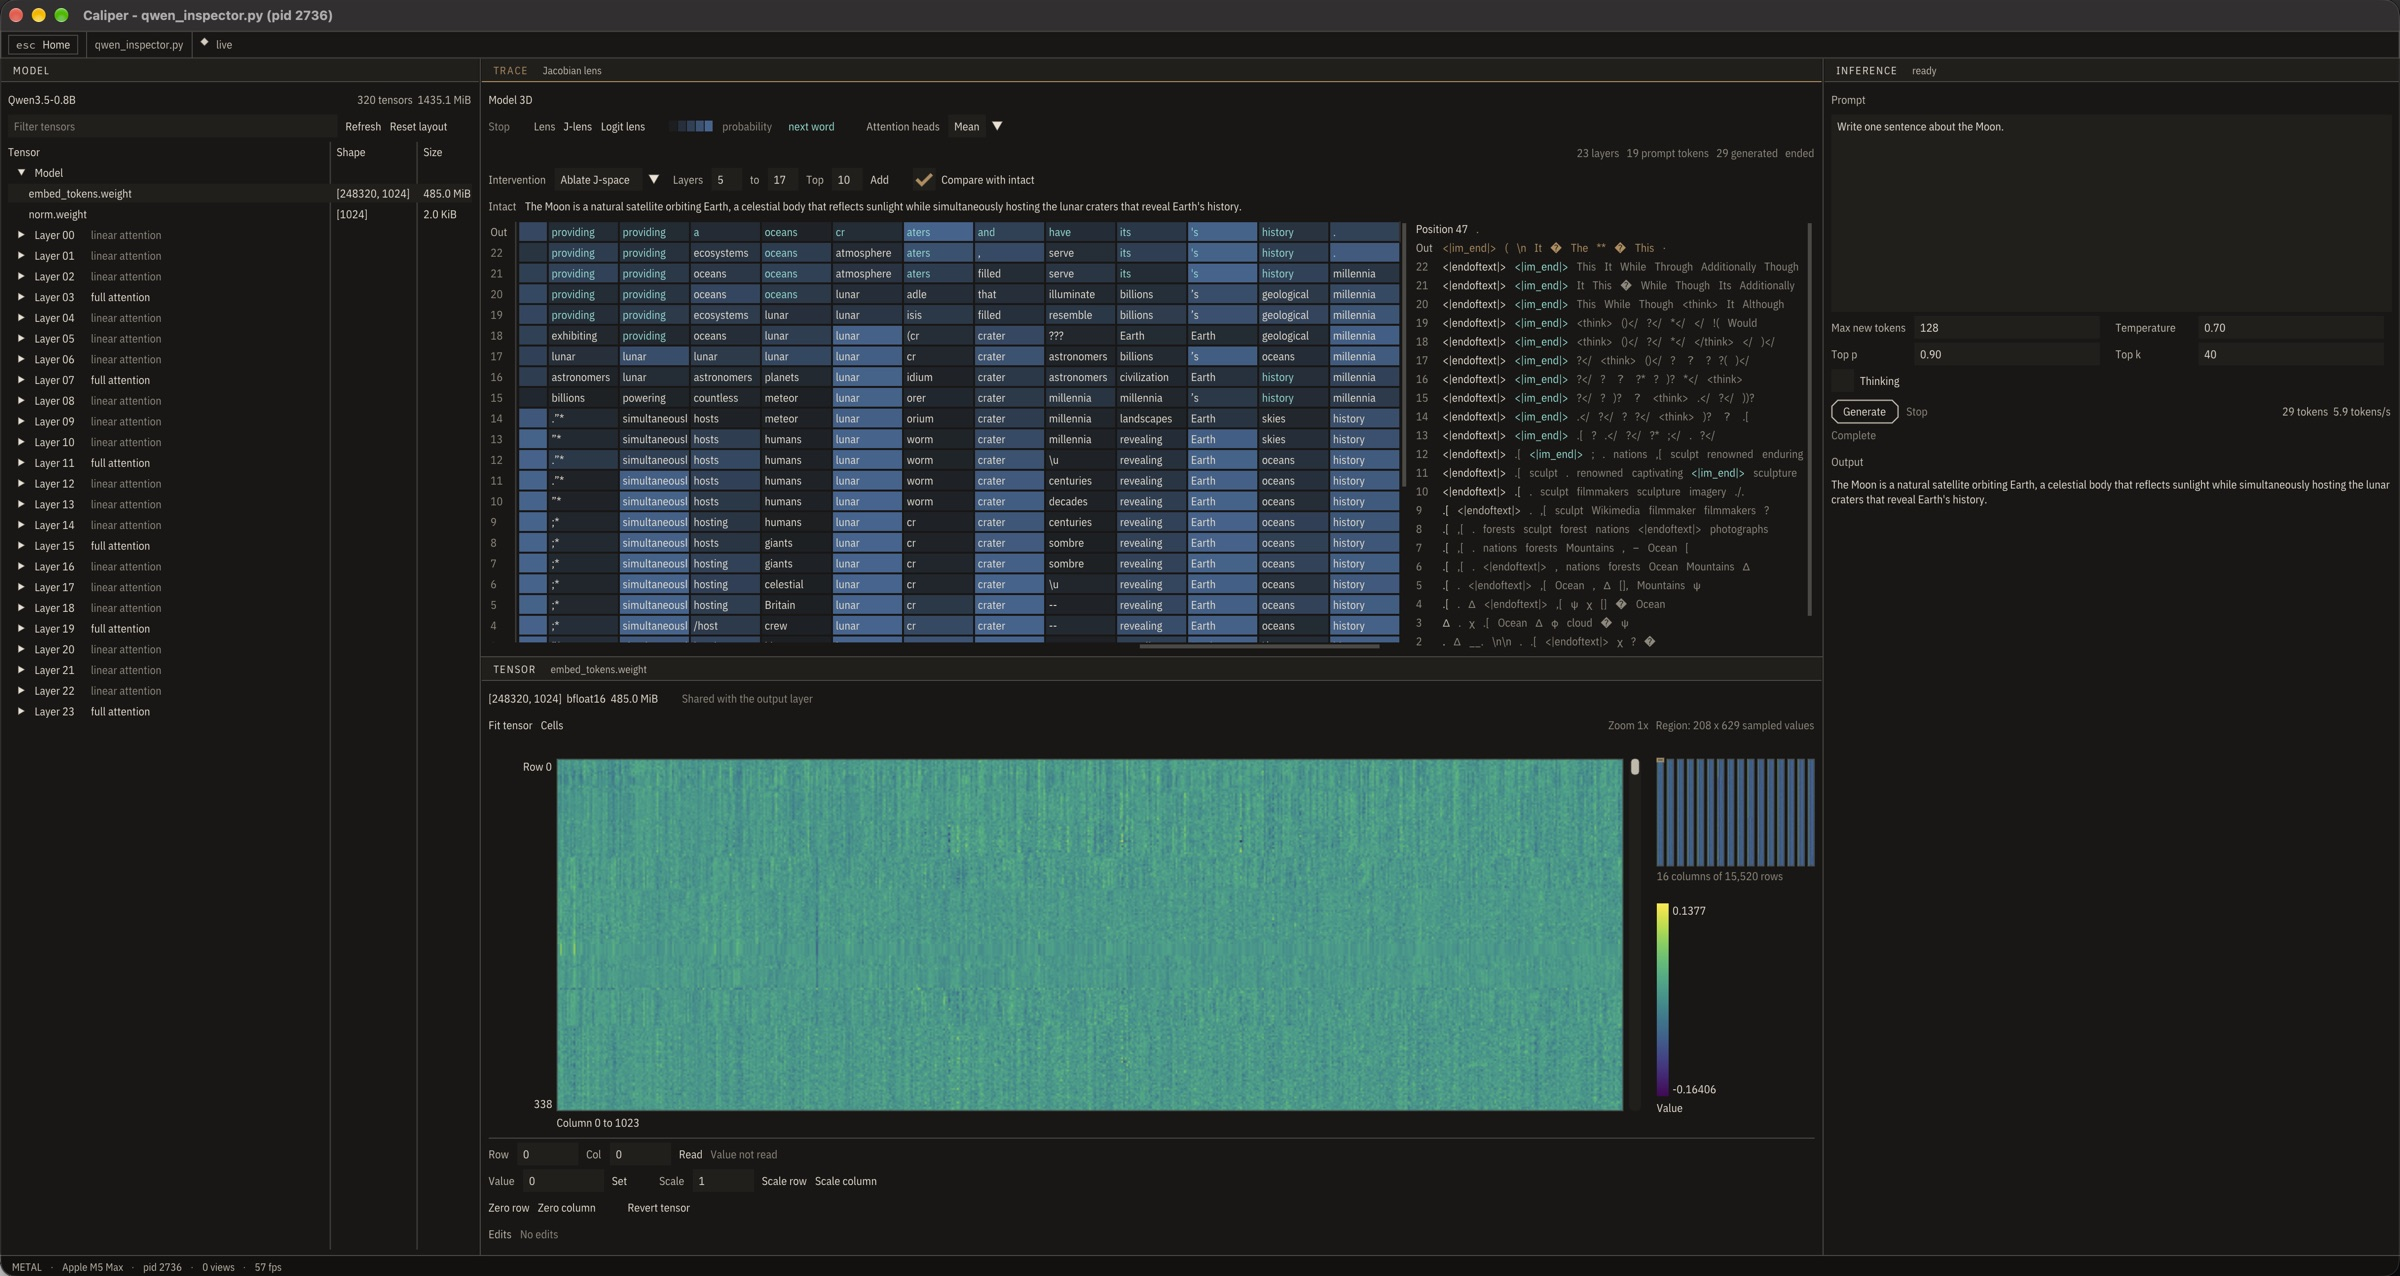
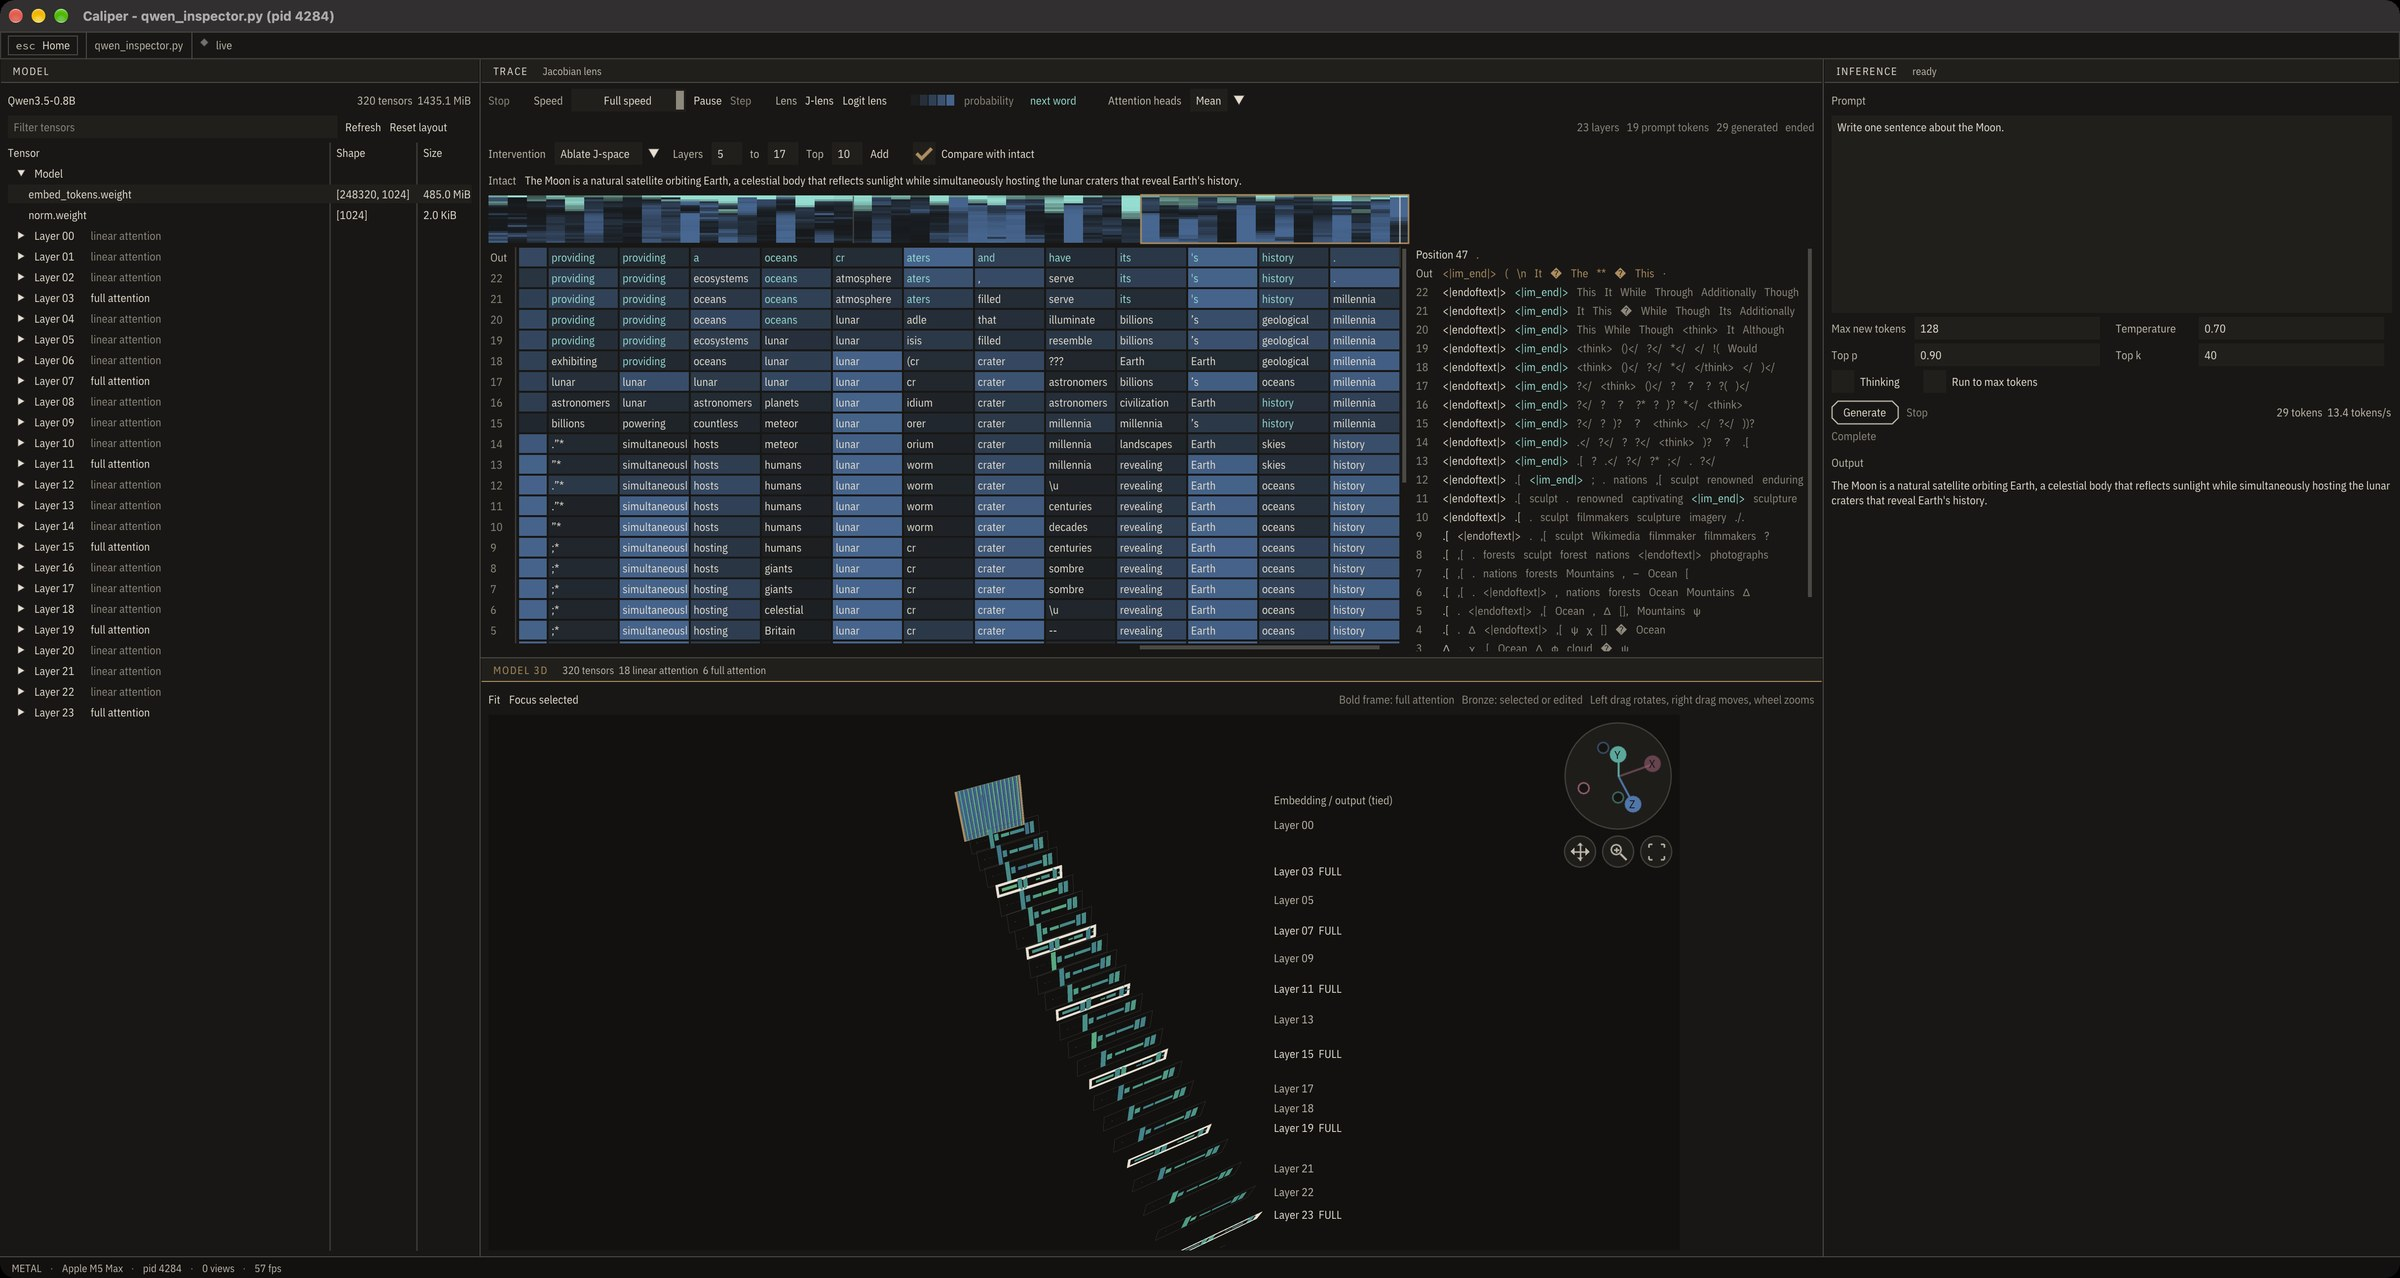
Site: the hero screenshot shows Model 3D under the J-space trace
Claude-Session: https://claude.ai/code/session_01VE6j3WRdUkYkmdJG6Q3Me5

diff --git a/site/index.html b/site/index.html
@@ -352,8 +352,8 @@
       <span class="chip">Vulkan</span><span class="chip">ImGui</span><span class="chip">ImPlot</span>
       <span class="chip">ImPlot3D</span>
     </div>
-    <div class="shot"><img src="assets/inspector.jpg" width="2400" height="1276"
-      alt="The Caliper inspector attached to Qwen3.5-0.8B: the parameter tree, the Trace pane reading every layer through the Jacobian lens while the model writes, the embedding tensor and the inference output"></div>
+    <div class="shot"><img src="assets/inspector.jpg" width="2400" height="1278"
+      alt="The Caliper inspector attached to Qwen3.5-0.8B: the parameter tree, the Trace pane reading every layer through the Jacobian lens while the model writes, Model 3D with every tensor at its true shape, and the inference output"></div>
     <p class="caption">The live inspector attached to Qwen3.5-0.8B on an Apple M5 Max.</p>
   </div>
 </header>
